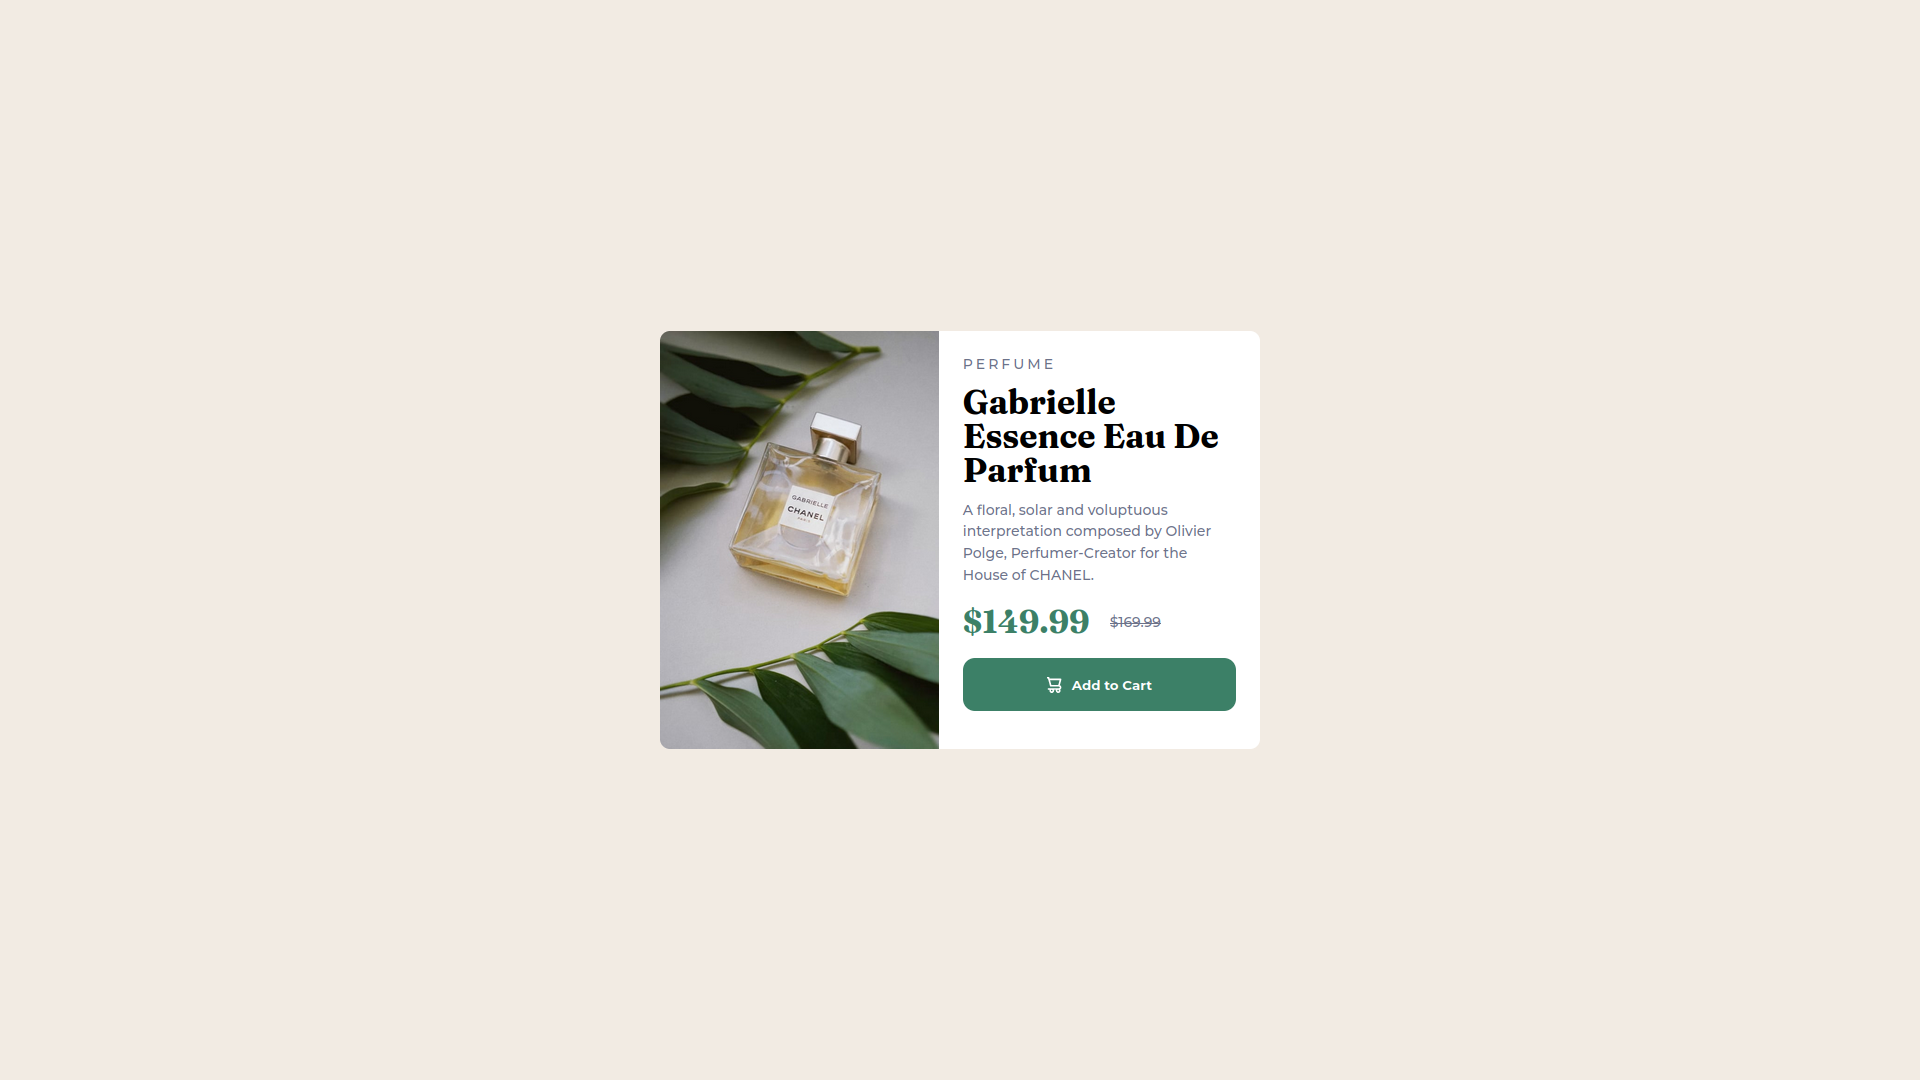
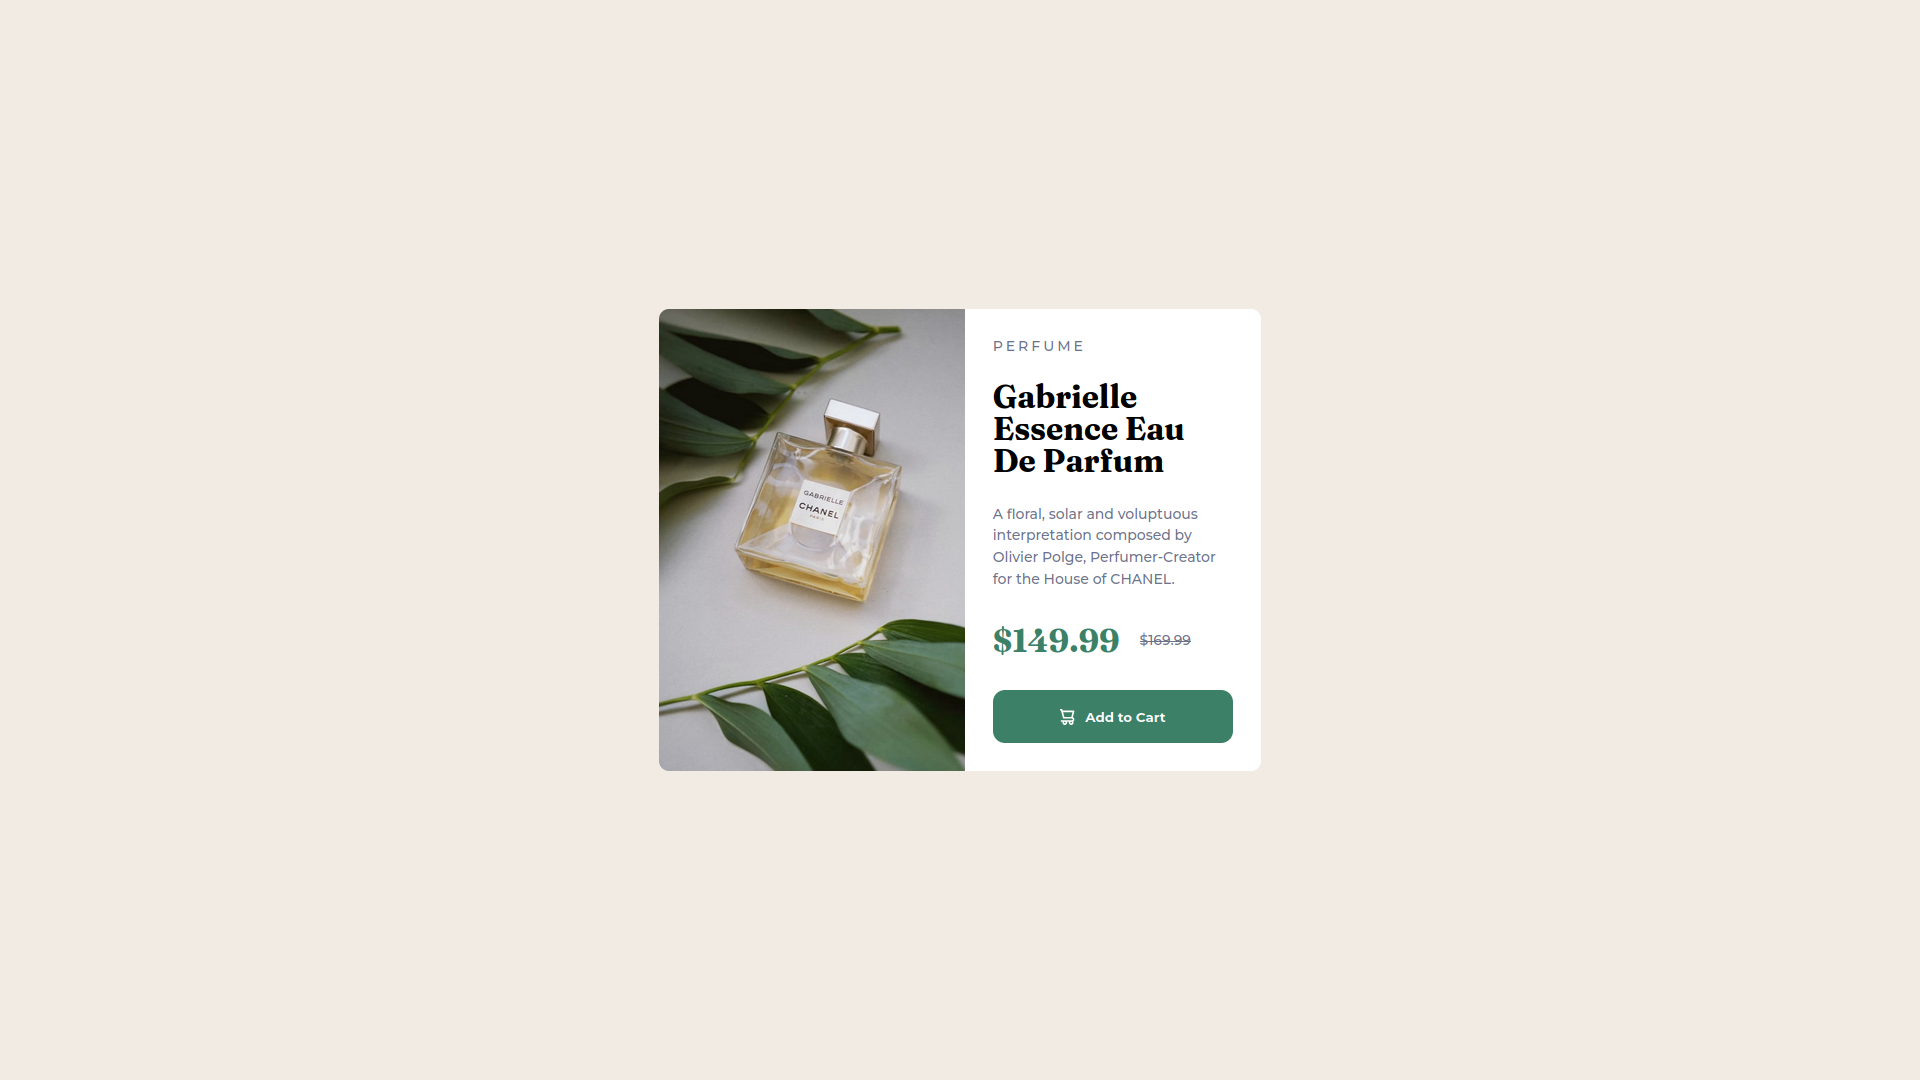
Fine tuned

Changed region(s): [[0.3438, 0.275, 0.6562, 0.7333]]

diff --git a/style.css b/style.css
@@ -16,14 +16,10 @@
     box-sizing: border-box;
 }
 body {
-    overflow: hidden;
-}
-.wrapper {
-    height: 100vh;
-    overflow: scroll;
-    background-color: var(--cream);
+    min-height: 100vh;
     display: grid;
     place-items: center;
+    background-color: var(--cream);
 }
 .card {
     --border-radius: 10px;
@@ -33,6 +29,7 @@ body {
     grid-template-rows: auto auto;
     max-width: 375px;
     width: 90%;
+    margin: auto;
 }
 .card-image-mobile {
     max-width: 400px;
@@ -45,11 +42,12 @@ body {
 }
 .card-body {
     background-color: var(--white);
-    padding: 1.5rem 1.5rem;
+    padding: 1.3rem 1.3rem;
     border-bottom-left-radius: var(--border-radius);
     border-bottom-right-radius: var(--border-radius);
     display: flex;
     flex-direction: column;
+    gap: 0.25rem;
 }
 .product-type {
     color: var(--dark-grayish-blue);
@@ -60,19 +58,18 @@ body {
 }
 .product-name {
     font-family: "Fraunces", sans-serif;
-    font-size: 2.12rem;
-    font-size: clamp(1.5rem, 8vw, 2.12rem);
-    padding: 12px 0px;
-    max-width: 294px;
+    font-size: clamp(1.5rem, 8vw, 2rem);
+    padding: 0.375em 0px;
+    max-width: 245px;
     line-height: 1;
     /* width: 90%; */
 }
 .product-description {
-    font-size: 14px;
+    font-size: 0.875rem;
     color: var(--dark-grayish-blue);
     font-family: "Montserrat", sans-serif;
     line-height: 1.55;
-    max-width: 292px;
+    max-width: 265px;
 }
 .product-price {
     font-size: 2rem;
@@ -81,10 +78,10 @@ body {
     display: flex;
     align-items: center;
     gap: 1.25rem;
-    padding: 17px 0;
+    padding: 0.53em 0;
 }
 .old-price {
-    font-size: 14px;
+    font-size: 0.875rem;
     color: var(--dark-grayish-blue);
     text-decoration: line-through;
     font-family: "Montserrat", sans-serif;
@@ -97,7 +94,7 @@ body {
     color: white;
     font-family: "Montserrat", sans-serif;
     font-weight: 700;
-    transition-property: background-color,scale;
+    transition-property: background-color, scale;
     transition-duration: 200ms;
     cursor: pointer;
     display: flex;
@@ -115,18 +112,20 @@ body {
 @media (min-width: 700px) {
     .card {
         flex-direction: row;
-        max-width: 600px;
+        max-width: 800px;
     }
     .card-image-mobile {
         display: none;
     }
     .card-image-desktop {
         display: unset;
-        max-width: 400px;
+        max-width: 348px;
         border-radius: 10px 0 0 10px;
-        width: 50%;
+        width: 56%;
     }
     .card-body {
         border-radius: 0 10px 10px 0;
+        gap: 0.875rem;
+        padding: 1.75rem 1.75rem;
     }
 }

diff --git a/index.html b/index.html
@@ -16,7 +16,7 @@
         <link rel="stylesheet" href="style.css" />
     </head>
     <body>
-        <div class="wrapper">
+        <main>
             <div class="card">
                 <img
                     src="images/image-product-mobile.jpg"
@@ -30,9 +30,9 @@
                 />
                 <div class="card-body">
                     <span class="product-type">Perfume</span>
-                    <h2 class="product-name">
+                    <h1 class="product-name">
                         Gabrielle Essence Eau De Parfum
-                    </h2>
+                    </h1>
                     <p class="product-description">
                         A floral, solar and voluptuous interpretation composed
                         by Olivier Polge, Perfumer-Creator for the House of
@@ -48,6 +48,6 @@
                     </button>
                 </div>
             </div>
-        </div>
+        </main>
     </body>
 </html>
